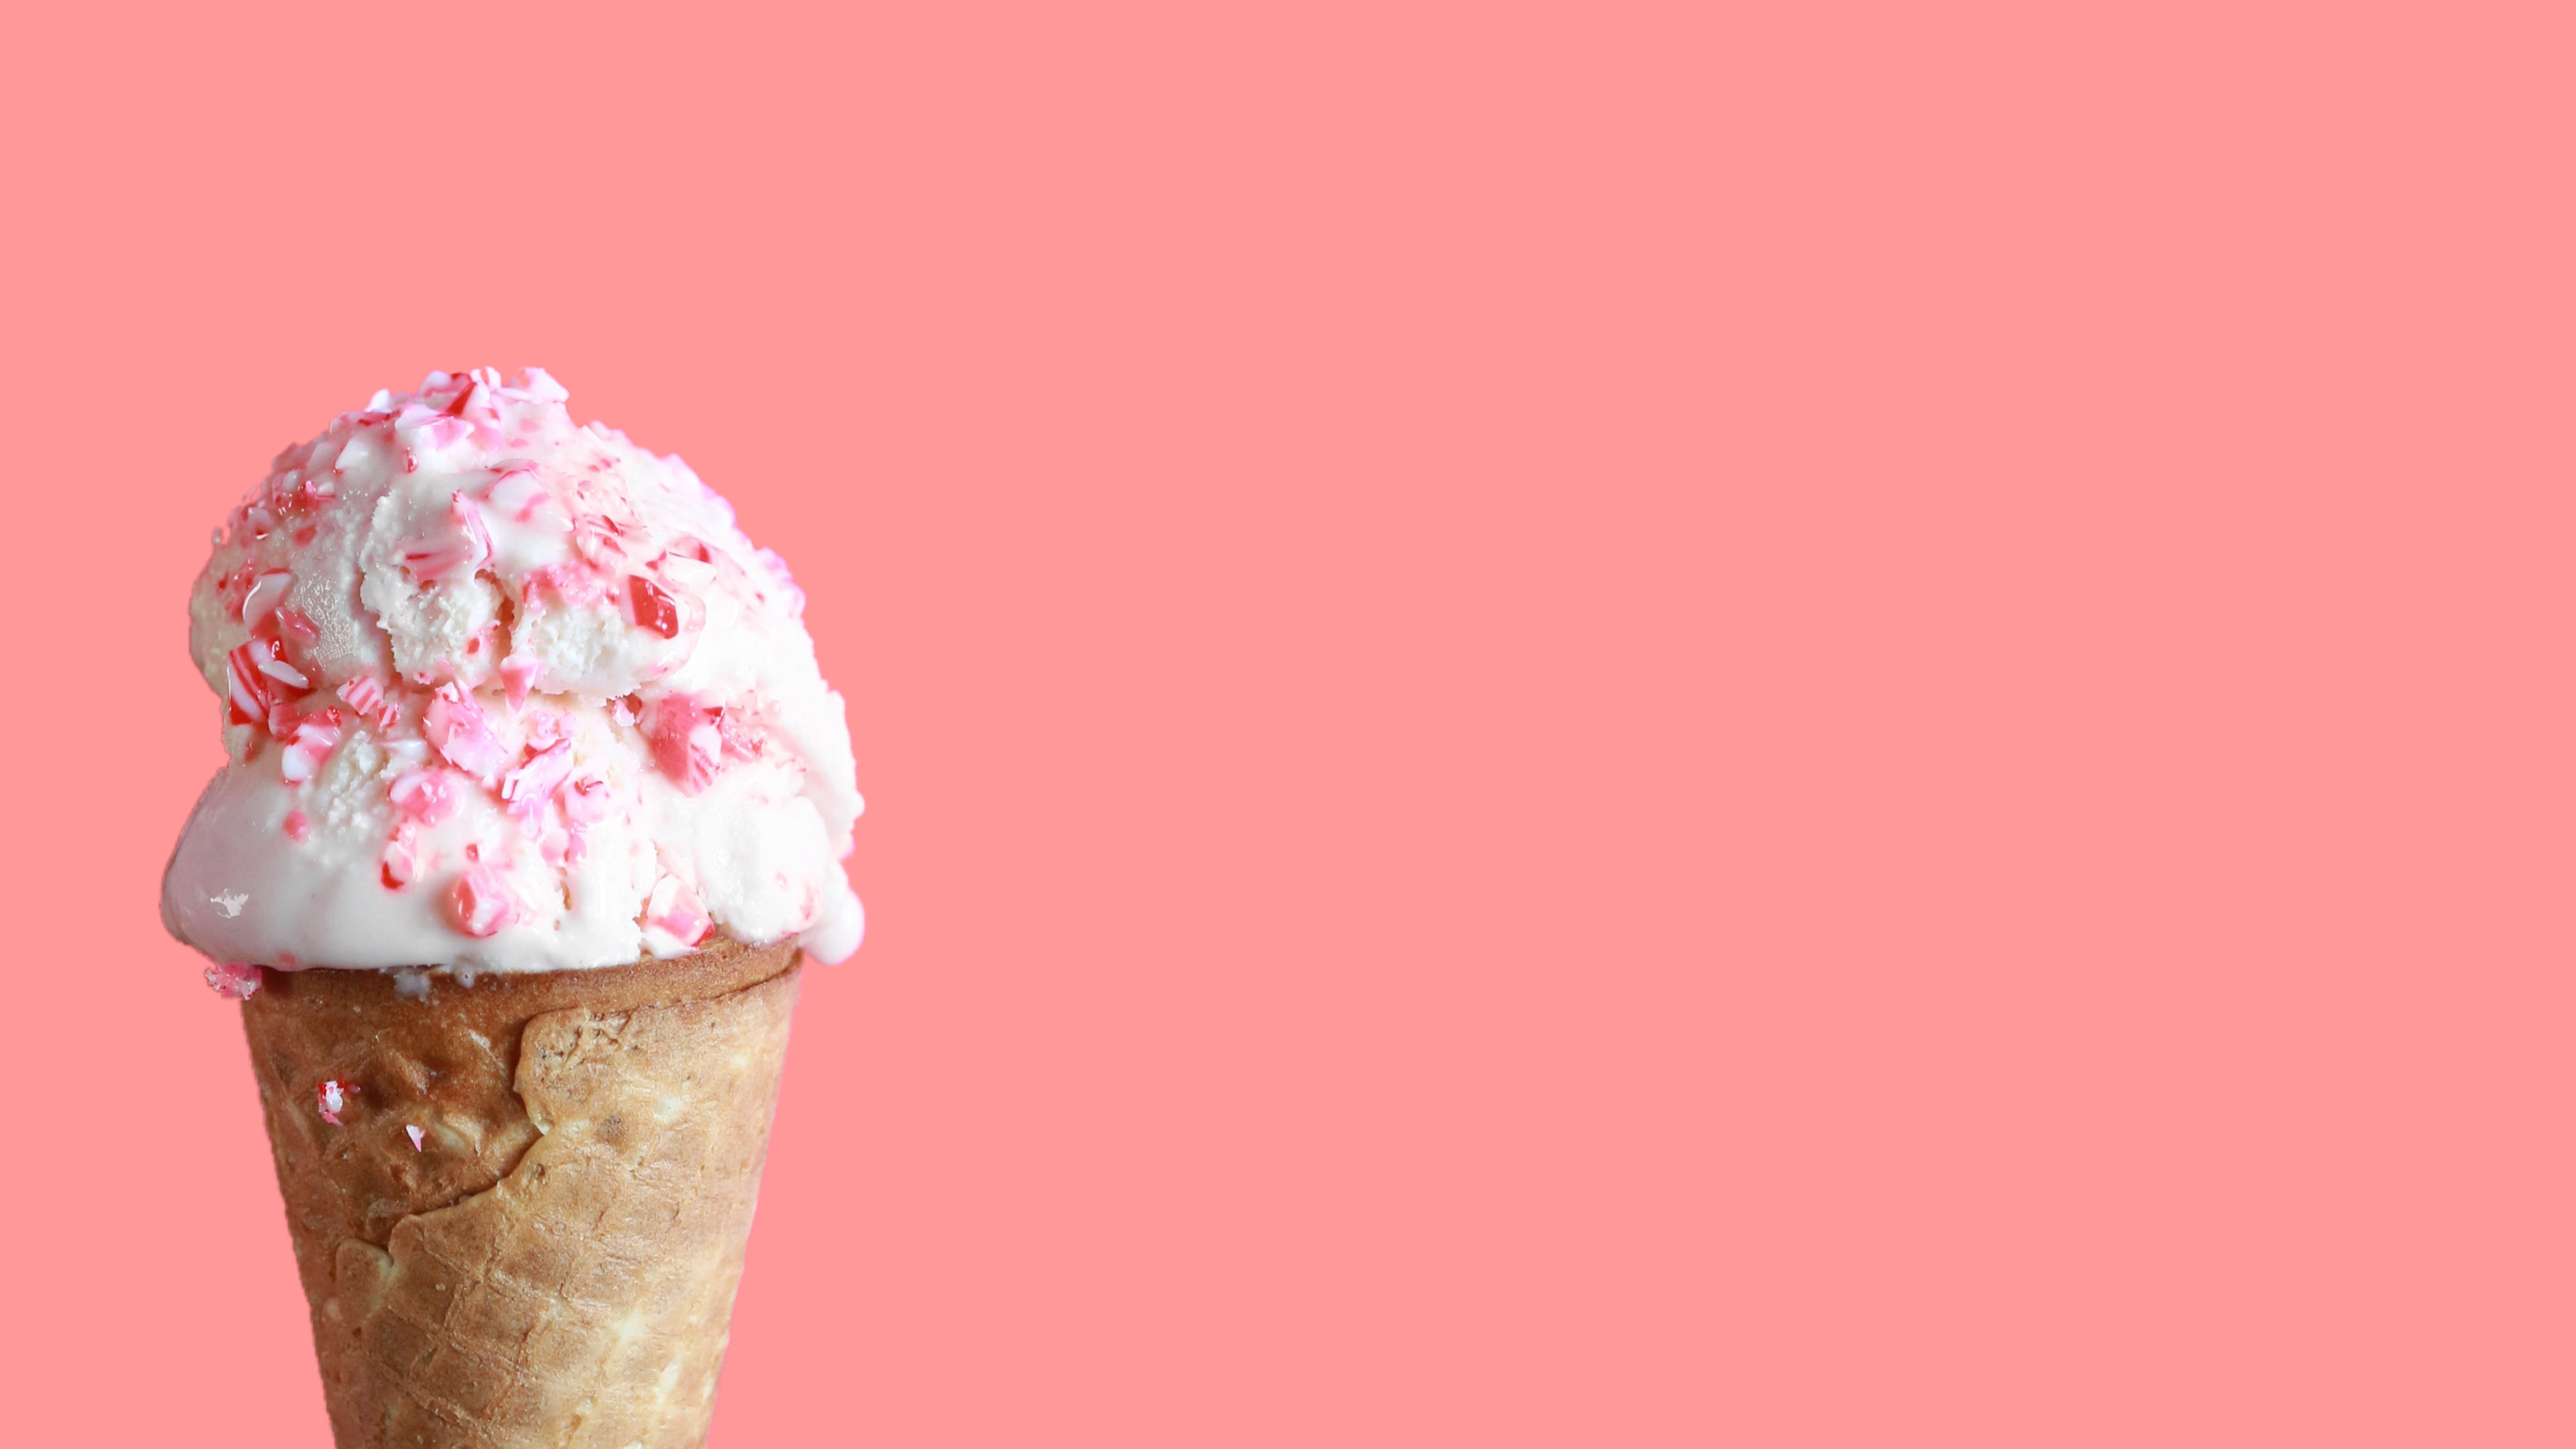
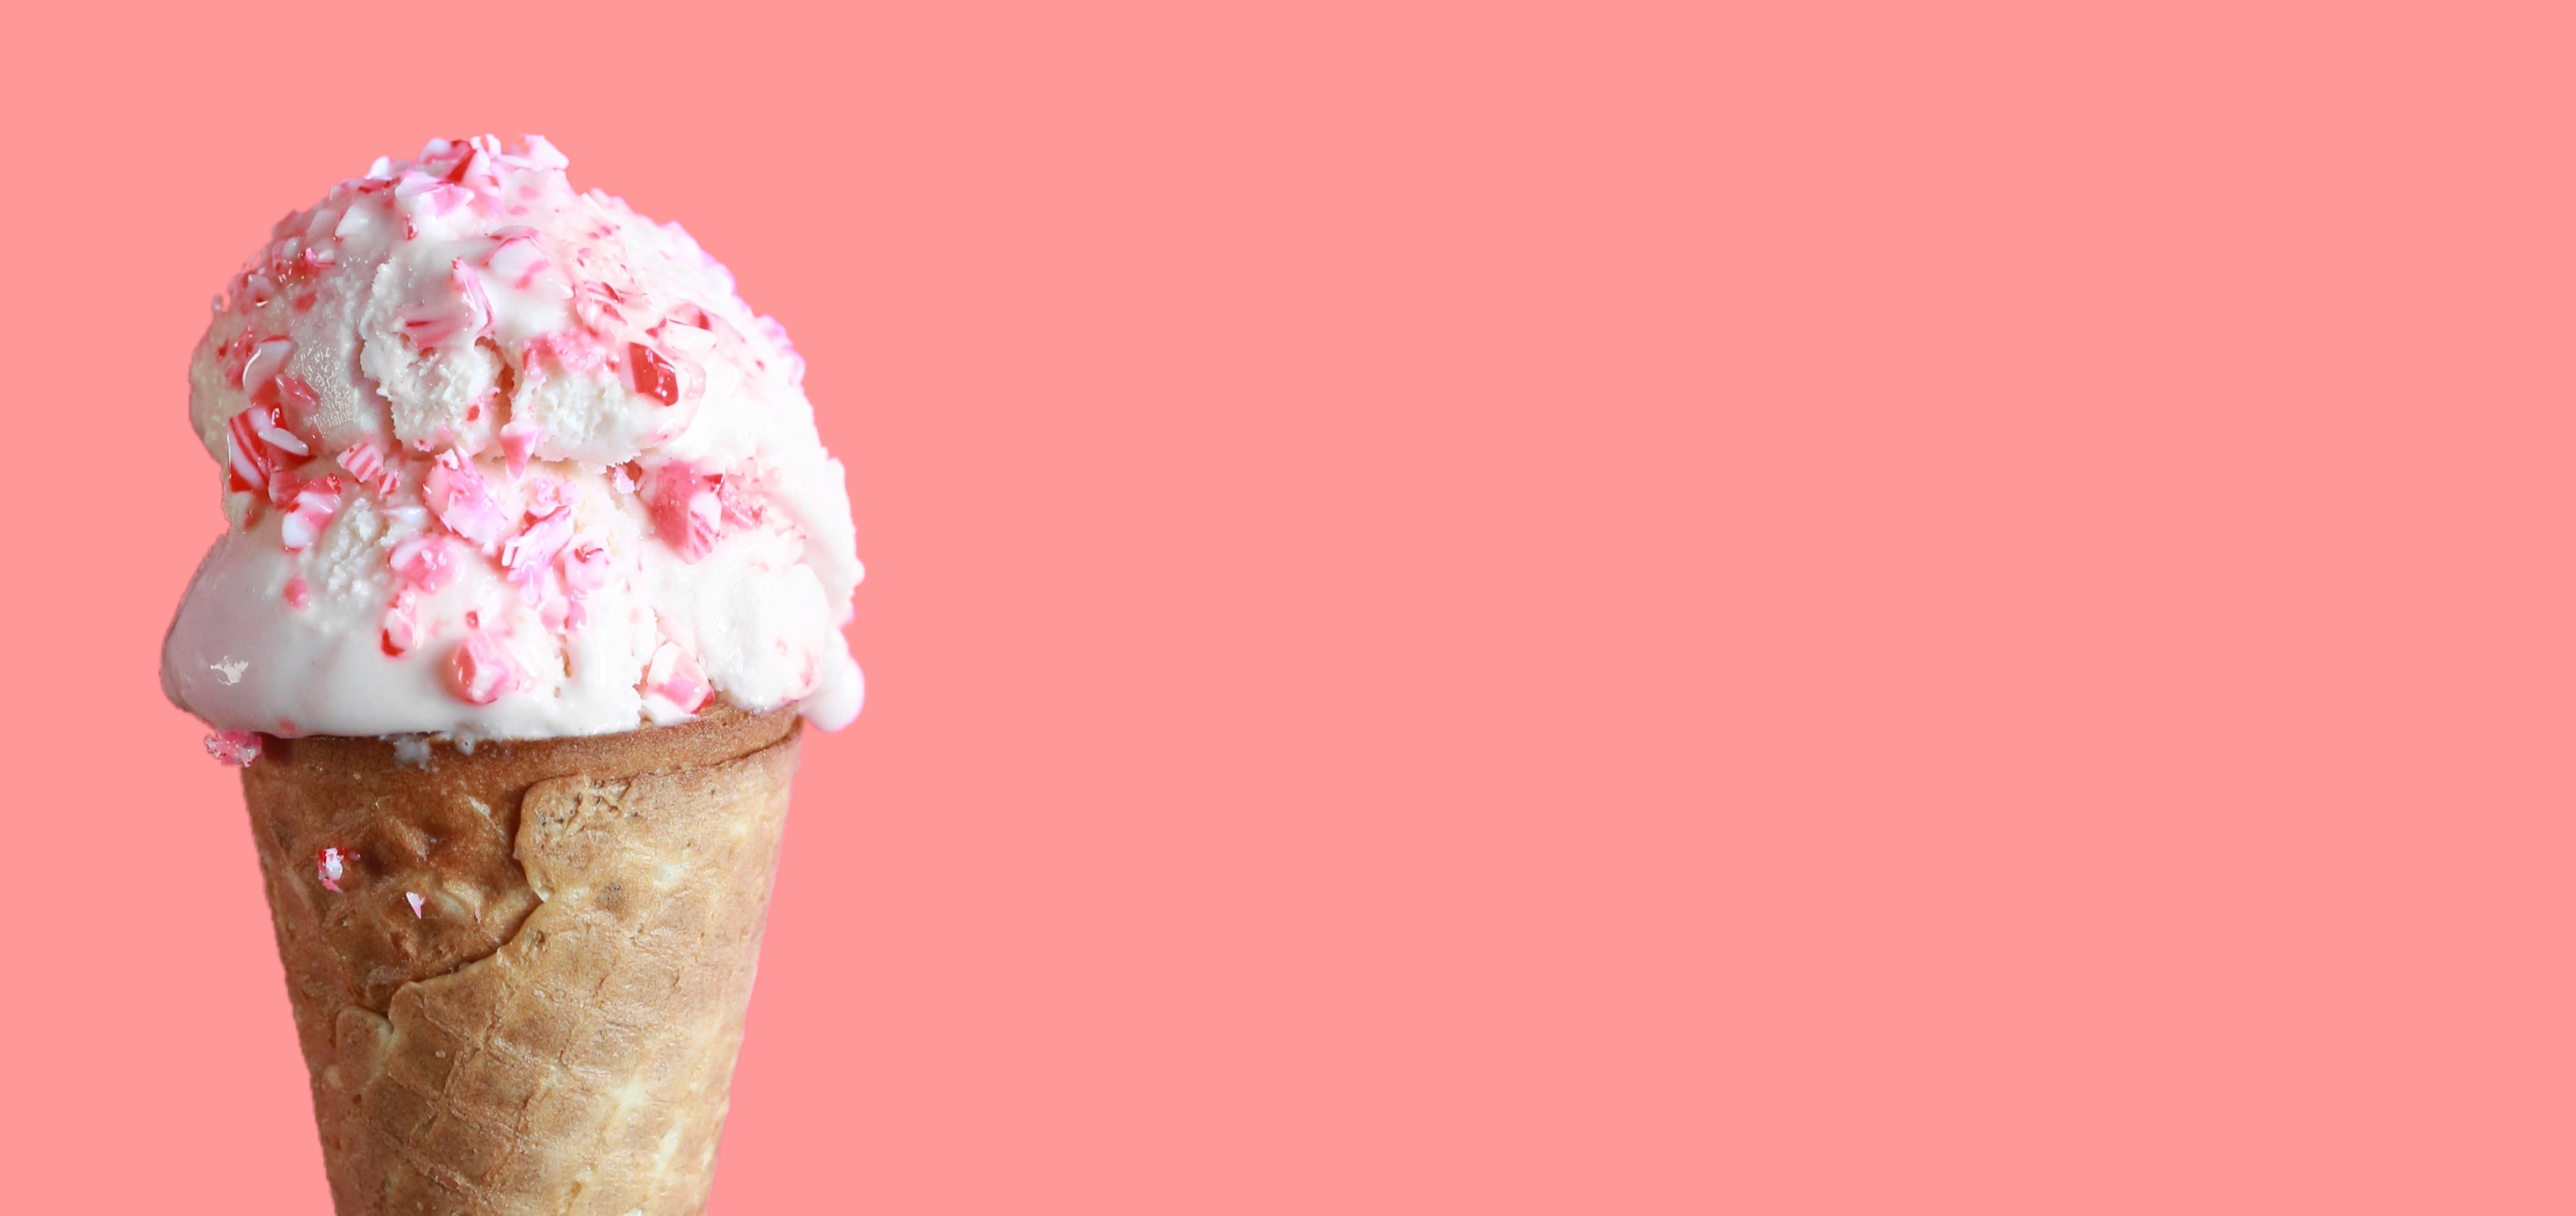
homepage hero

Changed region(s): [[0.0625, 0.0931, 0.3438, 0.9928]]

diff --git a/final_project/index.html b/final_project/index.html
@@ -23,16 +23,27 @@
         </nav>
       </header>
       <!-- Home Page -->
-      <h3>Home Page</h3>
       <!-- Hero -->
-    <div id="hero">
-      <img id="hero-icecream"msrc="/final_project/images/MN-hero.PNG" alt="Ice cream cone on pink">
-      <h2>Welcome to MN Nice Cream</h2>
-      <p>We are a Minnesota Ice Cream Shop located in Stillwater and Minneapolis Minnesota. Our goal is to
-        serve up yummy Minnesota themed ice cream and bring smiles to your face. 
-      </p>
+    <div id="hero-container">
+      <div>
+        <img id="hero-icecream"src="/final_project/images/MN-hero.jpeg" alt="Ice cream cone on pink">
+        <section id="hero-msg">
+          <h2>Welcome to MN Nice Cream</h2>
+          <p>We are a Minnesota Ice Cream Shop located in Stillwater and Minneapolis Minnesota. Our goal is to
+          serve up yummy Minnesota themed ice cream and bring smiles to your face. We are proud Minnesotans who 
+          love ice cream and all things MN Nice. Enjoy a sample, or five, and get yourself a scoop of our naturally
+          flavored ice cream topped with our iconic edible glitter. 
+          </p>
+        <div class="button-box">
+          <a class="flavors-box" href="flavors.html">Our Flavors</a>
+        </section>
+        </div>
+      </div>
     </div>
-  
+  <!-- Flavor Quote with link to Our Flavors page -->
+  <!-- Best Sellers -->
+  <!-- Quote with image -->
+  <!-- Follow our instagram -->
       <!-- Footer -->
       <footer>
         <p>MN Nice Cream &copy; 2023 - Kathryn Lambert</p>

diff --git a/final_project/styles/styles.css b/final_project/styles/styles.css
@@ -26,7 +26,7 @@ nav {
   justify-content: space-around;
 }
 nav a:hover {
-  background-color: #e9afa3;
+  background-color: #ff9999;
   color: white;
   padding: 35px;
 }
@@ -41,8 +41,8 @@ header {
   padding-left: 7px;
 }
 footer {
-  background-color: #e9afa3;
-  color: black;
+  background-color: #ff9999;
+  color: #3a405a;
   padding: 25px 50px;
   margin-top: 200px;
   display: flex;
@@ -50,7 +50,7 @@ footer {
   align-items: center;
 }
 footer a {
-  color: black;
+  color: #3a405a;
   text-decoration: none;
 }
 footer a:hover {
@@ -71,4 +71,51 @@ footer .social img {
 }
 .social img {
   width: 70px;
+  z-index: -1;
+}
+#hero-container {
+  z-index: -1;
+  display: grid;
+  position: absolute;
+}
+#hero-msg {
+  position: absolute;
+  bottom: 325px;
+  top: 350px;
+  right: 250px;
+  left: 800px;
+  z-index: 0;
+  background-color: #aec5eb;
+  color: #3a405a;
+  padding-left: 20px;
+  padding-right: 20px;
+  margin-bottom: -15px;
+  text-align: center;
+}
+#hero-msg p {
+  font-size: 16pt;
+  font-family: "Antic Slab", Arial, Helvetica;
+}
+#hero-icecream {
+  width: 100%;
+}
+.button-box {
+  text-align: center;
+  font-family: "Antic Slab", Arial, Helvetica;
+  padding-bottom: 50px;
+}
+.flavors-box {
+  background-color: #3a405a;
+  color: white;
+  text-decoration: none;
+  font-size: 18px;
+  padding: 15px 30px;
+  margin-top: 50px;
+  border-radius: 5px;
+}
+.flavors-box:hover {
+  background-color: #3a405a;
+  color: #aec5eb;
+  text-decoration: none;
+  font-size: 18px;
 }
